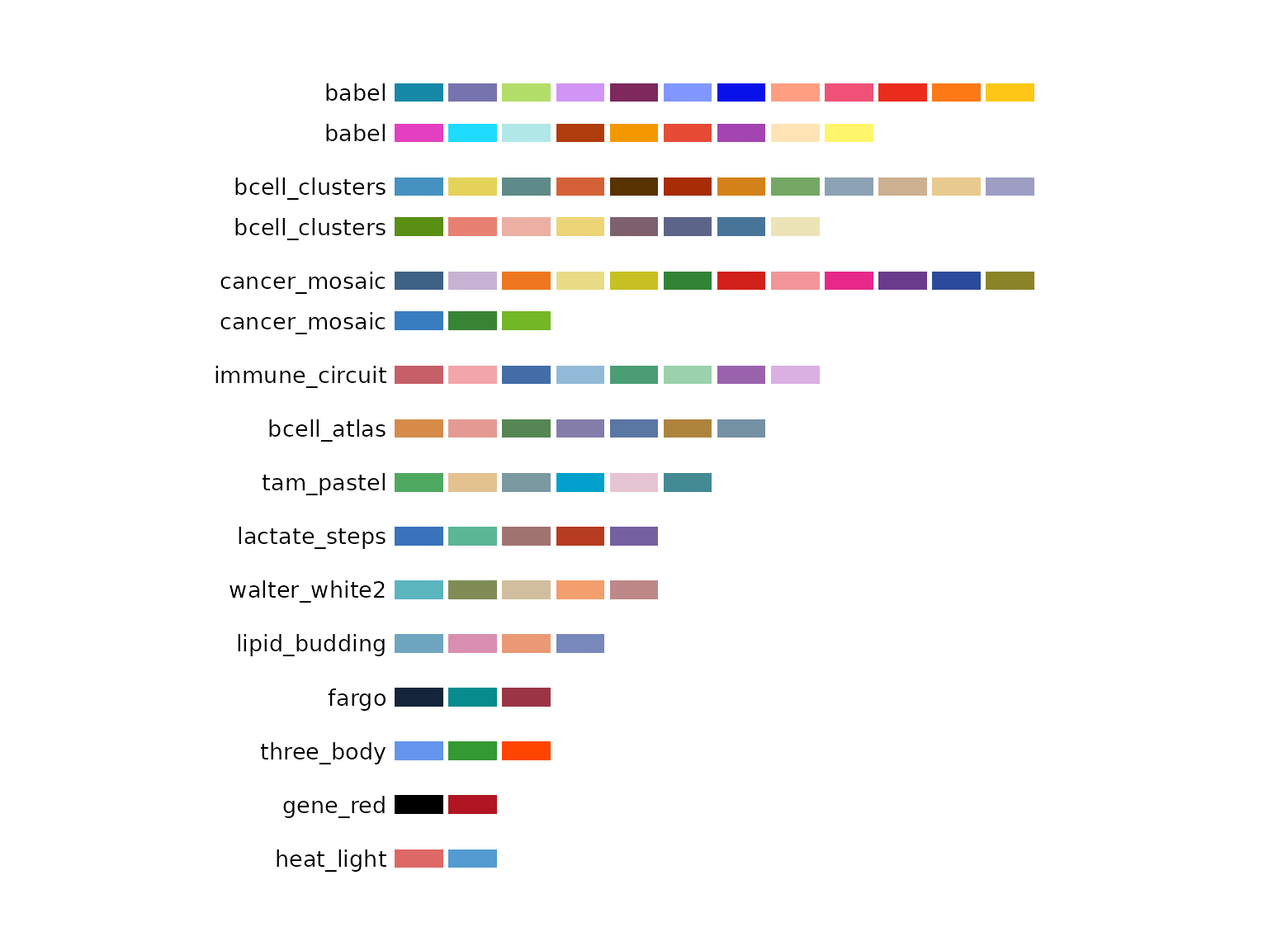
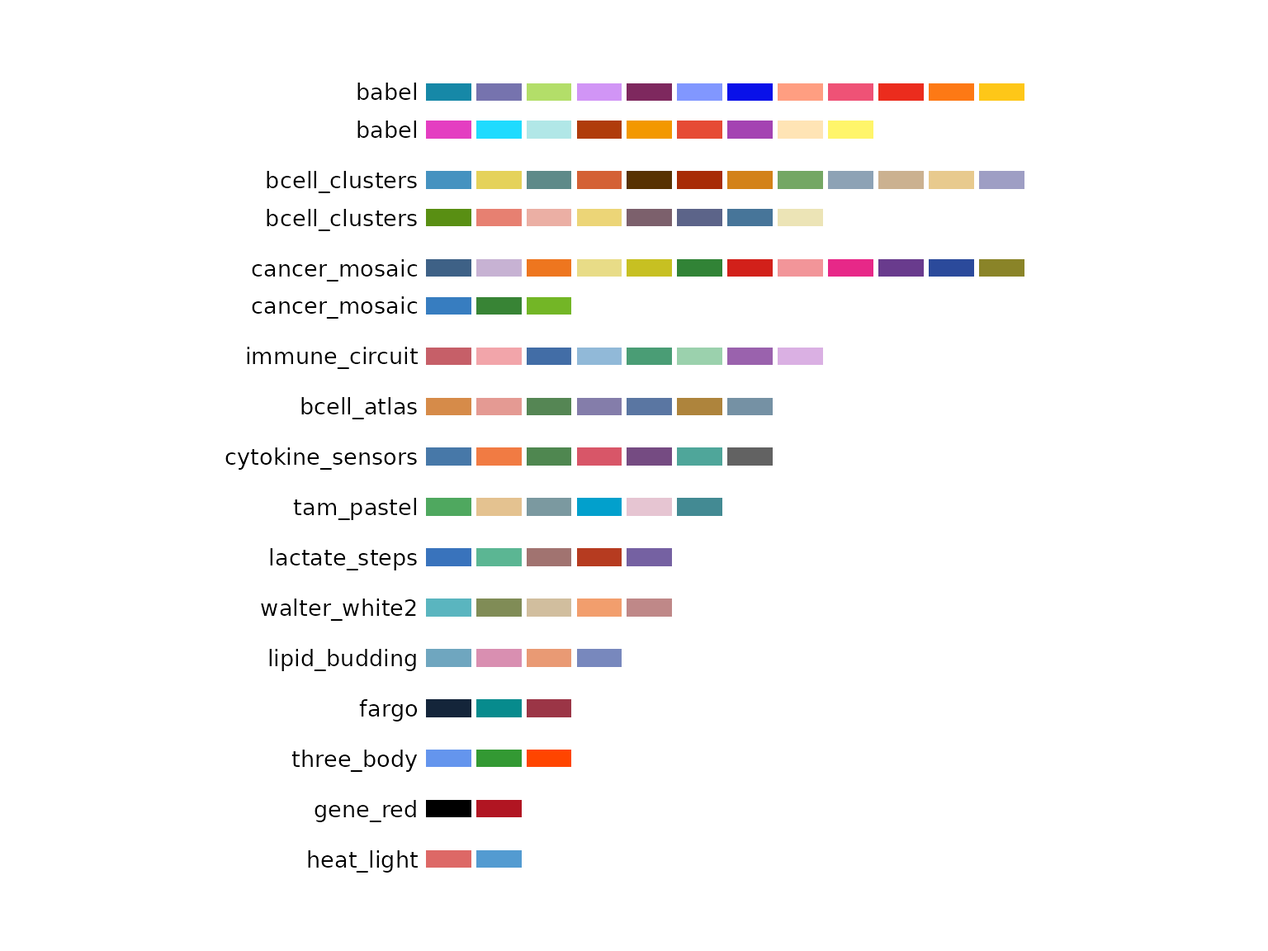
Deploying to gh-pages from @ evanbio/biopalette@20e13fb54e8c9c66c42164e6188b19ed5a1212f1 🚀

Changed region(s): [[0.1562, 0.0625, 0.8125, 0.9375], [0.75, 0.0938, 0.7812, 0.125]]

diff --git a/reference/list_palettes.html b/reference/list_palettes.html
@@ -145,33 +145,35 @@ If NULL, the palettes bundled with the package are used.</p></dd>
 <span class="r-out co"><span class="r-pr">#&gt;</span> 10        walter_white2 qualitative       5 #5AB5BF,....</span>
 <span class="r-out co"><span class="r-pr">#&gt;</span> 11           tam_pastel qualitative       6 #4FA85F,....</span>
 <span class="r-out co"><span class="r-pr">#&gt;</span> 12          bcell_atlas qualitative       7 #D68B49,....</span>
-<span class="r-out co"><span class="r-pr">#&gt;</span> 13       immune_circuit qualitative       8 #C65F68,....</span>
-<span class="r-out co"><span class="r-pr">#&gt;</span> 14        cancer_mosaic qualitative      15 #3E6186,....</span>
-<span class="r-out co"><span class="r-pr">#&gt;</span> 15       bcell_clusters qualitative      20 #4592C0,....</span>
-<span class="r-out co"><span class="r-pr">#&gt;</span> 16                babel qualitative      21 #1688A7,....</span>
-<span class="r-out co"><span class="r-pr">#&gt;</span> 17   lipid_budding_blue  sequential       5 #D2E7EE,....</span>
-<span class="r-out co"><span class="r-pr">#&gt;</span> 18 lipid_budding_indigo  sequential       5 #D5DBEE,....</span>
-<span class="r-out co"><span class="r-pr">#&gt;</span> 19 lipid_budding_orange  sequential       5 #F7D8C8,....</span>
-<span class="r-out co"><span class="r-pr">#&gt;</span> 20   lipid_budding_rose  sequential       5 #EED4E1,....</span>
-<span class="r-out co"><span class="r-pr">#&gt;</span> 21     mitonuclear_blue  sequential       6 #EEF4FB,....</span>
-<span class="r-out co"><span class="r-pr">#&gt;</span> 22   mitonuclear_orange  sequential       6 #F8E7E3,....</span>
-<span class="r-out co"><span class="r-pr">#&gt;</span> 23 immune_circuit_green  sequential       7 #E1F2E7,....</span>
-<span class="r-out co"><span class="r-pr">#&gt;</span> 24   immune_circuit_red  sequential       7 #FBE5E3,....</span>
+<span class="r-out co"><span class="r-pr">#&gt;</span> 13     cytokine_sensors qualitative       7 #4778A8,....</span>
+<span class="r-out co"><span class="r-pr">#&gt;</span> 14       immune_circuit qualitative       8 #C65F68,....</span>
+<span class="r-out co"><span class="r-pr">#&gt;</span> 15        cancer_mosaic qualitative      15 #3E6186,....</span>
+<span class="r-out co"><span class="r-pr">#&gt;</span> 16       bcell_clusters qualitative      20 #4592C0,....</span>
+<span class="r-out co"><span class="r-pr">#&gt;</span> 17                babel qualitative      21 #1688A7,....</span>
+<span class="r-out co"><span class="r-pr">#&gt;</span> 18   lipid_budding_blue  sequential       5 #D2E7EE,....</span>
+<span class="r-out co"><span class="r-pr">#&gt;</span> 19 lipid_budding_indigo  sequential       5 #D5DBEE,....</span>
+<span class="r-out co"><span class="r-pr">#&gt;</span> 20 lipid_budding_orange  sequential       5 #F7D8C8,....</span>
+<span class="r-out co"><span class="r-pr">#&gt;</span> 21   lipid_budding_rose  sequential       5 #EED4E1,....</span>
+<span class="r-out co"><span class="r-pr">#&gt;</span> 22     mitonuclear_blue  sequential       6 #EEF4FB,....</span>
+<span class="r-out co"><span class="r-pr">#&gt;</span> 23   mitonuclear_orange  sequential       6 #F8E7E3,....</span>
+<span class="r-out co"><span class="r-pr">#&gt;</span> 24 immune_circuit_green  sequential       7 #E1F2E7,....</span>
+<span class="r-out co"><span class="r-pr">#&gt;</span> 25   immune_circuit_red  sequential       7 #FBE5E3,....</span>
 <span class="r-in"><span><span class="fu">list_palettes</span><span class="op">(</span>type <span class="op">=</span> <span class="st">"qualitative"</span><span class="op">)</span></span></span>
-<span class="r-out co"><span class="r-pr">#&gt;</span>              name        type n_color       colors</span>
-<span class="r-out co"><span class="r-pr">#&gt;</span> 1        gene_red qualitative       2 #000000,....</span>
-<span class="r-out co"><span class="r-pr">#&gt;</span> 2      heat_light qualitative       2 #DD6866,....</span>
-<span class="r-out co"><span class="r-pr">#&gt;</span> 3           fargo qualitative       3 #14253A,....</span>
-<span class="r-out co"><span class="r-pr">#&gt;</span> 4      three_body qualitative       3 #6495ED,....</span>
-<span class="r-out co"><span class="r-pr">#&gt;</span> 5   lipid_budding qualitative       4 #6FA6BF,....</span>
-<span class="r-out co"><span class="r-pr">#&gt;</span> 6   lactate_steps qualitative       5 #3973BC,....</span>
-<span class="r-out co"><span class="r-pr">#&gt;</span> 7   walter_white2 qualitative       5 #5AB5BF,....</span>
-<span class="r-out co"><span class="r-pr">#&gt;</span> 8      tam_pastel qualitative       6 #4FA85F,....</span>
-<span class="r-out co"><span class="r-pr">#&gt;</span> 9     bcell_atlas qualitative       7 #D68B49,....</span>
-<span class="r-out co"><span class="r-pr">#&gt;</span> 10 immune_circuit qualitative       8 #C65F68,....</span>
-<span class="r-out co"><span class="r-pr">#&gt;</span> 11  cancer_mosaic qualitative      15 #3E6186,....</span>
-<span class="r-out co"><span class="r-pr">#&gt;</span> 12 bcell_clusters qualitative      20 #4592C0,....</span>
-<span class="r-out co"><span class="r-pr">#&gt;</span> 13          babel qualitative      21 #1688A7,....</span>
+<span class="r-out co"><span class="r-pr">#&gt;</span>                name        type n_color       colors</span>
+<span class="r-out co"><span class="r-pr">#&gt;</span> 1          gene_red qualitative       2 #000000,....</span>
+<span class="r-out co"><span class="r-pr">#&gt;</span> 2        heat_light qualitative       2 #DD6866,....</span>
+<span class="r-out co"><span class="r-pr">#&gt;</span> 3             fargo qualitative       3 #14253A,....</span>
+<span class="r-out co"><span class="r-pr">#&gt;</span> 4        three_body qualitative       3 #6495ED,....</span>
+<span class="r-out co"><span class="r-pr">#&gt;</span> 5     lipid_budding qualitative       4 #6FA6BF,....</span>
+<span class="r-out co"><span class="r-pr">#&gt;</span> 6     lactate_steps qualitative       5 #3973BC,....</span>
+<span class="r-out co"><span class="r-pr">#&gt;</span> 7     walter_white2 qualitative       5 #5AB5BF,....</span>
+<span class="r-out co"><span class="r-pr">#&gt;</span> 8        tam_pastel qualitative       6 #4FA85F,....</span>
+<span class="r-out co"><span class="r-pr">#&gt;</span> 9       bcell_atlas qualitative       7 #D68B49,....</span>
+<span class="r-out co"><span class="r-pr">#&gt;</span> 10 cytokine_sensors qualitative       7 #4778A8,....</span>
+<span class="r-out co"><span class="r-pr">#&gt;</span> 11   immune_circuit qualitative       8 #C65F68,....</span>
+<span class="r-out co"><span class="r-pr">#&gt;</span> 12    cancer_mosaic qualitative      15 #3E6186,....</span>
+<span class="r-out co"><span class="r-pr">#&gt;</span> 13   bcell_clusters qualitative      20 #4592C0,....</span>
+<span class="r-out co"><span class="r-pr">#&gt;</span> 14            babel qualitative      21 #1688A7,....</span>
 <span class="r-in"><span><span class="fu">list_palettes</span><span class="op">(</span>type <span class="op">=</span> <span class="fu"><a href="https://rdrr.io/r/base/c.html" class="external-link">c</a></span><span class="op">(</span><span class="st">"sequential"</span>, <span class="st">"diverging"</span><span class="op">)</span><span class="op">)</span></span></span>
 <span class="r-out co"><span class="r-pr">#&gt;</span>                    name       type n_color       colors</span>
 <span class="r-out co"><span class="r-pr">#&gt;</span> 1          bcell_atlas2  diverging       5 #D76B55,....</span>

diff --git a/reference/create_palette.html b/reference/create_palette.html
@@ -160,16 +160,16 @@ the collection that ships with the package.</p></dd>
     <div class="sourceCode"><pre class="sourceCode r"><code><span class="r-in"><span><span class="va">temp_dir</span> <span class="op">&lt;-</span> <span class="fu"><a href="https://rdrr.io/r/base/file.path.html" class="external-link">file.path</a></span><span class="op">(</span><span class="fu"><a href="https://rdrr.io/r/base/tempfile.html" class="external-link">tempdir</a></span><span class="op">(</span><span class="op">)</span>, <span class="st">"palettes"</span><span class="op">)</span></span></span>
 <span class="r-in"><span><span class="fu">create_palette</span><span class="op">(</span><span class="st">"blues"</span>, <span class="st">"sequential"</span>, <span class="fu"><a href="https://rdrr.io/r/base/c.html" class="external-link">c</a></span><span class="op">(</span><span class="st">"#deebf7"</span>, <span class="st">"#9ecae1"</span>, <span class="st">"#3182bd"</span><span class="op">)</span>,</span></span>
 <span class="r-in"><span>  palettes_dir <span class="op">=</span> <span class="va">temp_dir</span><span class="op">)</span></span></span>
-<span class="r-msg co"><span class="r-pr">#&gt;</span> <span style="color: #00BB00;">✔</span> Palette saved: <span style="color: #0000BB;">/tmp/RtmpOwpQ8U/palettes/sequential/blues.json</span></span>
+<span class="r-msg co"><span class="r-pr">#&gt;</span> <span style="color: #00BB00;">✔</span> Palette saved: <span style="color: #0000BB;">/tmp/RtmpzT0xN5/palettes/sequential/blues.json</span></span>
 <span class="r-in"><span><span class="fu">create_palette</span><span class="op">(</span><span class="st">"qual_vivid"</span>, <span class="st">"qualitative"</span>, <span class="fu"><a href="https://rdrr.io/r/base/c.html" class="external-link">c</a></span><span class="op">(</span><span class="st">"#E64B35"</span>, <span class="st">"#4DBBD5"</span>, <span class="st">"#00A087"</span><span class="op">)</span>,</span></span>
 <span class="r-in"><span>  palettes_dir <span class="op">=</span> <span class="va">temp_dir</span><span class="op">)</span></span></span>
-<span class="r-msg co"><span class="r-pr">#&gt;</span> <span style="color: #00BB00;">✔</span> Palette saved: <span style="color: #0000BB;">/tmp/RtmpOwpQ8U/palettes/qualitative/qual_vivid.json</span></span>
+<span class="r-msg co"><span class="r-pr">#&gt;</span> <span style="color: #00BB00;">✔</span> Palette saved: <span style="color: #0000BB;">/tmp/RtmpzT0xN5/palettes/qualitative/qual_vivid.json</span></span>
 <span class="r-in"><span></span></span>
 <span class="r-in"><span><span class="co"># Overwrite an existing palette explicitly</span></span></span>
 <span class="r-in"><span><span class="fu">create_palette</span><span class="op">(</span><span class="st">"blues"</span>, <span class="st">"sequential"</span>, <span class="fu"><a href="https://rdrr.io/r/base/c.html" class="external-link">c</a></span><span class="op">(</span><span class="st">"#c6dbef"</span>, <span class="st">"#6baed6"</span>, <span class="st">"#2171b5"</span><span class="op">)</span>,</span></span>
 <span class="r-in"><span>  palettes_dir <span class="op">=</span> <span class="va">temp_dir</span>, overwrite <span class="op">=</span> <span class="cn">TRUE</span><span class="op">)</span></span></span>
 <span class="r-msg co"><span class="r-pr">#&gt;</span> <span style="color: #00BBBB;">ℹ</span> Overwriting existing palette: <span style="color: #0000BB;">"blues"</span></span>
-<span class="r-msg co"><span class="r-pr">#&gt;</span> <span style="color: #00BB00;">✔</span> Palette saved: <span style="color: #0000BB;">/tmp/RtmpOwpQ8U/palettes/sequential/blues.json</span></span>
+<span class="r-msg co"><span class="r-pr">#&gt;</span> <span style="color: #00BB00;">✔</span> Palette saved: <span style="color: #0000BB;">/tmp/RtmpzT0xN5/palettes/sequential/blues.json</span></span>
 <span class="r-in"><span></span></span>
 <span class="r-in"><span><span class="fu"><a href="https://rdrr.io/r/base/unlink.html" class="external-link">unlink</a></span><span class="op">(</span><span class="va">temp_dir</span>, recursive <span class="op">=</span> <span class="cn">TRUE</span><span class="op">)</span></span></span>
 </code></pre></div>

diff --git a/articles/get-started.html b/articles/get-started.html
@@ -172,18 +172,19 @@ is not yet installed.</p>
 <span><span class="co">#&gt; 10        walter_white2 qualitative       5</span></span>
 <span><span class="co">#&gt; 11           tam_pastel qualitative       6</span></span>
 <span><span class="co">#&gt; 12          bcell_atlas qualitative       7</span></span>
-<span><span class="co">#&gt; 13       immune_circuit qualitative       8</span></span>
-<span><span class="co">#&gt; 14        cancer_mosaic qualitative      15</span></span>
-<span><span class="co">#&gt; 15       bcell_clusters qualitative      20</span></span>
-<span><span class="co">#&gt; 16                babel qualitative      21</span></span>
-<span><span class="co">#&gt; 17   lipid_budding_blue  sequential       5</span></span>
-<span><span class="co">#&gt; 18 lipid_budding_indigo  sequential       5</span></span>
-<span><span class="co">#&gt; 19 lipid_budding_orange  sequential       5</span></span>
-<span><span class="co">#&gt; 20   lipid_budding_rose  sequential       5</span></span>
-<span><span class="co">#&gt; 21     mitonuclear_blue  sequential       6</span></span>
-<span><span class="co">#&gt; 22   mitonuclear_orange  sequential       6</span></span>
-<span><span class="co">#&gt; 23 immune_circuit_green  sequential       7</span></span>
-<span><span class="co">#&gt; 24   immune_circuit_red  sequential       7</span></span></code></pre></div>
+<span><span class="co">#&gt; 13     cytokine_sensors qualitative       7</span></span>
+<span><span class="co">#&gt; 14       immune_circuit qualitative       8</span></span>
+<span><span class="co">#&gt; 15        cancer_mosaic qualitative      15</span></span>
+<span><span class="co">#&gt; 16       bcell_clusters qualitative      20</span></span>
+<span><span class="co">#&gt; 17                babel qualitative      21</span></span>
+<span><span class="co">#&gt; 18   lipid_budding_blue  sequential       5</span></span>
+<span><span class="co">#&gt; 19 lipid_budding_indigo  sequential       5</span></span>
+<span><span class="co">#&gt; 20 lipid_budding_orange  sequential       5</span></span>
+<span><span class="co">#&gt; 21   lipid_budding_rose  sequential       5</span></span>
+<span><span class="co">#&gt; 22     mitonuclear_blue  sequential       6</span></span>
+<span><span class="co">#&gt; 23   mitonuclear_orange  sequential       6</span></span>
+<span><span class="co">#&gt; 24 immune_circuit_green  sequential       7</span></span>
+<span><span class="co">#&gt; 25   immune_circuit_red  sequential       7</span></span></code></pre></div>
 <p>Filter by type when the visual role is already known:</p>
 <div class="sourceCode" id="cb2"><pre class="downlit sourceCode r">
 <code class="sourceCode R"><span><span class="fu"><a href="../reference/list_palettes.html">list_palettes</a></span><span class="op">(</span>type <span class="op">=</span> <span class="st">"sequential"</span><span class="op">)</span><span class="op">[</span><span class="fu"><a href="https://rdrr.io/r/base/c.html" class="external-link">c</a></span><span class="op">(</span><span class="st">"name"</span>, <span class="st">"n_color"</span><span class="op">)</span><span class="op">]</span></span>

diff --git a/articles/palette.html b/articles/palette.html
@@ -162,18 +162,19 @@ directory on GitHub.</p>
 <span><span class="co">#&gt; 10        walter_white2 qualitative       5</span></span>
 <span><span class="co">#&gt; 11           tam_pastel qualitative       6</span></span>
 <span><span class="co">#&gt; 12          bcell_atlas qualitative       7</span></span>
-<span><span class="co">#&gt; 13       immune_circuit qualitative       8</span></span>
-<span><span class="co">#&gt; 14        cancer_mosaic qualitative      15</span></span>
-<span><span class="co">#&gt; 15       bcell_clusters qualitative      20</span></span>
-<span><span class="co">#&gt; 16                babel qualitative      21</span></span>
-<span><span class="co">#&gt; 17   lipid_budding_blue  sequential       5</span></span>
-<span><span class="co">#&gt; 18 lipid_budding_indigo  sequential       5</span></span>
-<span><span class="co">#&gt; 19 lipid_budding_orange  sequential       5</span></span>
-<span><span class="co">#&gt; 20   lipid_budding_rose  sequential       5</span></span>
-<span><span class="co">#&gt; 21     mitonuclear_blue  sequential       6</span></span>
-<span><span class="co">#&gt; 22   mitonuclear_orange  sequential       6</span></span>
-<span><span class="co">#&gt; 23 immune_circuit_green  sequential       7</span></span>
-<span><span class="co">#&gt; 24   immune_circuit_red  sequential       7</span></span></code></pre></div>
+<span><span class="co">#&gt; 13     cytokine_sensors qualitative       7</span></span>
+<span><span class="co">#&gt; 14       immune_circuit qualitative       8</span></span>
+<span><span class="co">#&gt; 15        cancer_mosaic qualitative      15</span></span>
+<span><span class="co">#&gt; 16       bcell_clusters qualitative      20</span></span>
+<span><span class="co">#&gt; 17                babel qualitative      21</span></span>
+<span><span class="co">#&gt; 18   lipid_budding_blue  sequential       5</span></span>
+<span><span class="co">#&gt; 19 lipid_budding_indigo  sequential       5</span></span>
+<span><span class="co">#&gt; 20 lipid_budding_orange  sequential       5</span></span>
+<span><span class="co">#&gt; 21   lipid_budding_rose  sequential       5</span></span>
+<span><span class="co">#&gt; 22     mitonuclear_blue  sequential       6</span></span>
+<span><span class="co">#&gt; 23   mitonuclear_orange  sequential       6</span></span>
+<span><span class="co">#&gt; 24 immune_circuit_green  sequential       7</span></span>
+<span><span class="co">#&gt; 25   immune_circuit_red  sequential       7</span></span></code></pre></div>
 <p>Use <code><a href="../reference/palette_gallery.html">palette_gallery()</a></code> when choosing visually in an
 interactive R session:</p>
 <div class="sourceCode" id="cb3"><pre class="downlit sourceCode r">

diff --git a/reference/palette_gallery.html b/reference/palette_gallery.html
@@ -151,7 +151,7 @@ If NULL, the palettes bundled with the package are used.</p></dd>
 <span class="r-msg co"><span class="r-pr">#&gt;</span> <span style="color: #00BB00;">✔</span> Built <span style="color: #0000BB;">"sequential_page1"</span></span>
 <span class="r-msg co"><span class="r-pr">#&gt;</span> <span style="color: #00BBBB;">ℹ</span> Type <span style="font-weight: bold;">diverging</span>: 3 palettes -&gt; 1 page(s)</span>
 <span class="r-msg co"><span class="r-pr">#&gt;</span> <span style="color: #00BB00;">✔</span> Built <span style="color: #0000BB;">"diverging_page1"</span></span>
-<span class="r-msg co"><span class="r-pr">#&gt;</span> <span style="color: #00BBBB;">ℹ</span> Type <span style="font-weight: bold;">qualitative</span>: 13 palettes -&gt; 1 page(s)</span>
+<span class="r-msg co"><span class="r-pr">#&gt;</span> <span style="color: #00BBBB;">ℹ</span> Type <span style="font-weight: bold;">qualitative</span>: 14 palettes -&gt; 1 page(s)</span>
 <span class="r-msg co"><span class="r-pr">#&gt;</span> <span style="color: #00BB00;">✔</span> Built <span style="color: #0000BB;">"qualitative_page1"</span></span>
 <span class="r-out co"><span class="r-pr">#&gt;</span> $sequential_page1</span>
 <span class="r-plt img"><img src="palette_gallery-1.png" alt="" width="700" height="433"></span>
@@ -163,7 +163,7 @@ If NULL, the palettes bundled with the package are used.</p></dd>
 <span class="r-plt img"><img src="palette_gallery-3.png" alt="" width="700" height="433"></span>
 <span class="r-out co"><span class="r-pr">#&gt;</span> </span>
 <span class="r-in"><span><span class="fu">palette_gallery</span><span class="op">(</span>type <span class="op">=</span> <span class="st">"qualitative"</span><span class="op">)</span></span></span>
-<span class="r-msg co"><span class="r-pr">#&gt;</span> <span style="color: #00BBBB;">ℹ</span> Type <span style="font-weight: bold;">qualitative</span>: 13 palettes -&gt; 1 page(s)</span>
+<span class="r-msg co"><span class="r-pr">#&gt;</span> <span style="color: #00BBBB;">ℹ</span> Type <span style="font-weight: bold;">qualitative</span>: 14 palettes -&gt; 1 page(s)</span>
 <span class="r-msg co"><span class="r-pr">#&gt;</span> <span style="color: #00BB00;">✔</span> Built <span style="color: #0000BB;">"qualitative_page1"</span></span>
 <span class="r-out co"><span class="r-pr">#&gt;</span> $qualitative_page1</span>
 <span class="r-plt img"><img src="palette_gallery-4.png" alt="" width="700" height="433"></span>

diff --git a/reference/remove_palette.html b/reference/remove_palette.html
@@ -138,7 +138,7 @@ with the package can never be removed from.</p></dd>
 <span class="r-in"><span>  <span class="fu"><a href="https://rdrr.io/r/base/c.html" class="external-link">c</a></span><span class="op">(</span><span class="st">"#E64B35"</span>, <span class="st">"#4DBBD5"</span>, <span class="st">"#00A087"</span><span class="op">)</span>,</span></span>
 <span class="r-in"><span>  palettes_dir <span class="op">=</span> <span class="va">temp_dir</span></span></span>
 <span class="r-in"><span><span class="op">)</span></span></span>
-<span class="r-msg co"><span class="r-pr">#&gt;</span> <span style="color: #00BB00;">✔</span> Palette saved: <span style="color: #0000BB;">/tmp/RtmpOwpQ8U/biopalette-palettes-1bd14c16cdb1/qualitative/example_palette.json</span></span>
+<span class="r-msg co"><span class="r-pr">#&gt;</span> <span style="color: #00BB00;">✔</span> Palette saved: <span style="color: #0000BB;">/tmp/RtmpzT0xN5/biopalette-palettes-190b19df041f/qualitative/example_palette.json</span></span>
 <span class="r-in"><span></span></span>
 <span class="r-in"><span><span class="fu">remove_palette</span><span class="op">(</span><span class="st">"example_palette"</span>, palettes_dir <span class="op">=</span> <span class="va">temp_dir</span><span class="op">)</span></span></span>
 <span class="r-msg co"><span class="r-pr">#&gt;</span> <span style="color: #00BB00;">✔</span> Removed <span style="color: #0000BB;">"example_palette"</span> from <span style="font-weight: bold;">qualitative</span></span>

diff --git a/README_zh.html b/README_zh.html
@@ -273,6 +273,11 @@
 <td align="right">5</td>
 <td>石板靛蓝色的低到高连续数值</td>
 <td>肝脏内质网脂滴出芽 — FIT2 靛蓝</td>
+</tr><tr><td><a href="https://github.com/evanbio/biopalette/tree/main/palettes/cytokine_sensors" class="external-link"><code>cytokine_sensors</code></a></td>
+<td>定性</td>
+<td align="right">7</td>
+<td>六类神经免疫结局与一个中性细胞因子锚点</td>
+<td>中枢神经系统的神经元细胞因子感知（Trends Immunology, 2026）</td>
 </tr></tbody></table><hr></div>
 <div class="section level2">
 <h2 id="从色板到图形">从色板到图形<a class="anchor" aria-label="anchor" href="#%E4%BB%8E%E8%89%B2%E6%9D%BF%E5%88%B0%E5%9B%BE%E5%BD%A2"></a></h2>

diff --git a/index.html b/index.html
@@ -365,6 +365,13 @@
 <td>Low-to-high continuous values in slate indigo</td>
 <td>Hepatic ER lipid-droplet budding — FIT2 indigo</td>
 </tr>
+<tr>
+<td><code>cytokine_sensors</code></td>
+<td>Qualitative</td>
+<td align="right">7</td>
+<td>Six neuroimmune outcomes with a neutral cytokine anchor</td>
+<td>Neuronal cytokine sensing in the CNS (Trends Immunology, 2026)</td>
+</tr>
 </tbody>
 </table>
 </div>

diff --git a/reference/list_palettes.md b/reference/list_palettes.md
@@ -47,33 +47,35 @@ list_palettes()
 #> 10        walter_white2 qualitative       5 #5AB5BF,....
 #> 11           tam_pastel qualitative       6 #4FA85F,....
 #> 12          bcell_atlas qualitative       7 #D68B49,....
-#> 13       immune_circuit qualitative       8 #C65F68,....
-#> 14        cancer_mosaic qualitative      15 #3E6186,....
-#> 15       bcell_clusters qualitative      20 #4592C0,....
-#> 16                babel qualitative      21 #1688A7,....
-#> 17   lipid_budding_blue  sequential       5 #D2E7EE,....
-#> 18 lipid_budding_indigo  sequential       5 #D5DBEE,....
-#> 19 lipid_budding_orange  sequential       5 #F7D8C8,....
-#> 20   lipid_budding_rose  sequential       5 #EED4E1,....
-#> 21     mitonuclear_blue  sequential       6 #EEF4FB,....
-#> 22   mitonuclear_orange  sequential       6 #F8E7E3,....
-#> 23 immune_circuit_green  sequential       7 #E1F2E7,....
-#> 24   immune_circuit_red  sequential       7 #FBE5E3,....
+#> 13     cytokine_sensors qualitative       7 #4778A8,....
+#> 14       immune_circuit qualitative       8 #C65F68,....
+#> 15        cancer_mosaic qualitative      15 #3E6186,....
+#> 16       bcell_clusters qualitative      20 #4592C0,....
+#> 17                babel qualitative      21 #1688A7,....
+#> 18   lipid_budding_blue  sequential       5 #D2E7EE,....
+#> 19 lipid_budding_indigo  sequential       5 #D5DBEE,....
+#> 20 lipid_budding_orange  sequential       5 #F7D8C8,....
+#> 21   lipid_budding_rose  sequential       5 #EED4E1,....
+#> 22     mitonuclear_blue  sequential       6 #EEF4FB,....
+#> 23   mitonuclear_orange  sequential       6 #F8E7E3,....
+#> 24 immune_circuit_green  sequential       7 #E1F2E7,....
+#> 25   immune_circuit_red  sequential       7 #FBE5E3,....
 list_palettes(type = "qualitative")
-#>              name        type n_color       colors
-#> 1        gene_red qualitative       2 #000000,....
-#> 2      heat_light qualitative       2 #DD6866,....
-#> 3           fargo qualitative       3 #14253A,....
-#> 4      three_body qualitative       3 #6495ED,....
-#> 5   lipid_budding qualitative       4 #6FA6BF,....
-#> 6   lactate_steps qualitative       5 #3973BC,....
-#> 7   walter_white2 qualitative       5 #5AB5BF,....
-#> 8      tam_pastel qualitative       6 #4FA85F,....
-#> 9     bcell_atlas qualitative       7 #D68B49,....
-#> 10 immune_circuit qualitative       8 #C65F68,....
-#> 11  cancer_mosaic qualitative      15 #3E6186,....
-#> 12 bcell_clusters qualitative      20 #4592C0,....
-#> 13          babel qualitative      21 #1688A7,....
+#>                name        type n_color       colors
+#> 1          gene_red qualitative       2 #000000,....
+#> 2        heat_light qualitative       2 #DD6866,....
+#> 3             fargo qualitative       3 #14253A,....
+#> 4        three_body qualitative       3 #6495ED,....
+#> 5     lipid_budding qualitative       4 #6FA6BF,....
+#> 6     lactate_steps qualitative       5 #3973BC,....
+#> 7     walter_white2 qualitative       5 #5AB5BF,....
+#> 8        tam_pastel qualitative       6 #4FA85F,....
+#> 9       bcell_atlas qualitative       7 #D68B49,....
+#> 10 cytokine_sensors qualitative       7 #4778A8,....
+#> 11   immune_circuit qualitative       8 #C65F68,....
+#> 12    cancer_mosaic qualitative      15 #3E6186,....
+#> 13   bcell_clusters qualitative      20 #4592C0,....
+#> 14            babel qualitative      21 #1688A7,....
 list_palettes(type = c("sequential", "diverging"))
 #>                    name       type n_color       colors
 #> 1          bcell_atlas2  diverging       5 #D76B55,....

diff --git a/articles/get-started.md b/articles/get-started.md
@@ -35,18 +35,19 @@ list_palettes()[c("name", "type", "n_color")]
 #> 10        walter_white2 qualitative       5
 #> 11           tam_pastel qualitative       6
 #> 12          bcell_atlas qualitative       7
-#> 13       immune_circuit qualitative       8
-#> 14        cancer_mosaic qualitative      15
-#> 15       bcell_clusters qualitative      20
-#> 16                babel qualitative      21
-#> 17   lipid_budding_blue  sequential       5
-#> 18 lipid_budding_indigo  sequential       5
-#> 19 lipid_budding_orange  sequential       5
-#> 20   lipid_budding_rose  sequential       5
-#> 21     mitonuclear_blue  sequential       6
-#> 22   mitonuclear_orange  sequential       6
-#> 23 immune_circuit_green  sequential       7
-#> 24   immune_circuit_red  sequential       7
+#> 13     cytokine_sensors qualitative       7
+#> 14       immune_circuit qualitative       8
+#> 15        cancer_mosaic qualitative      15
+#> 16       bcell_clusters qualitative      20
+#> 17                babel qualitative      21
+#> 18   lipid_budding_blue  sequential       5
+#> 19 lipid_budding_indigo  sequential       5
+#> 20 lipid_budding_orange  sequential       5
+#> 21   lipid_budding_rose  sequential       5
+#> 22     mitonuclear_blue  sequential       6
+#> 23   mitonuclear_orange  sequential       6
+#> 24 immune_circuit_green  sequential       7
+#> 25   immune_circuit_red  sequential       7
 ```
 
 Filter by type when the visual role is already known:

diff --git a/articles/palette.md b/articles/palette.md
@@ -38,18 +38,19 @@ list_palettes()[c("name", "type", "n_color")]
 #> 10        walter_white2 qualitative       5
 #> 11           tam_pastel qualitative       6
 #> 12          bcell_atlas qualitative       7
-#> 13       immune_circuit qualitative       8
-#> 14        cancer_mosaic qualitative      15
-#> 15       bcell_clusters qualitative      20
-#> 16                babel qualitative      21
-#> 17   lipid_budding_blue  sequential       5
-#> 18 lipid_budding_indigo  sequential       5
-#> 19 lipid_budding_orange  sequential       5
-#> 20   lipid_budding_rose  sequential       5
-#> 21     mitonuclear_blue  sequential       6
-#> 22   mitonuclear_orange  sequential       6
-#> 23 immune_circuit_green  sequential       7
-#> 24   immune_circuit_red  sequential       7
+#> 13     cytokine_sensors qualitative       7
+#> 14       immune_circuit qualitative       8
+#> 15        cancer_mosaic qualitative      15
+#> 16       bcell_clusters qualitative      20
+#> 17                babel qualitative      21
+#> 18   lipid_budding_blue  sequential       5
+#> 19 lipid_budding_indigo  sequential       5
+#> 20 lipid_budding_orange  sequential       5
+#> 21   lipid_budding_rose  sequential       5
+#> 22     mitonuclear_blue  sequential       6
+#> 23   mitonuclear_orange  sequential       6
+#> 24 immune_circuit_green  sequential       7
+#> 25   immune_circuit_red  sequential       7
 ```
 
 Use

diff --git a/README_zh.md b/README_zh.md
@@ -95,6 +95,7 @@ remotes::install_github("evanbio/biopalette")
 | [`lipid_budding_rose`](https://github.com/evanbio/biopalette/tree/main/palettes/lipid_budding_rose) | 渐进 | 5 | 灰调玫红色的低到高连续数值 | 肝脏内质网脂滴出芽 — DGAT1 玫红 |
 | [`lipid_budding_orange`](https://github.com/evanbio/biopalette/tree/main/palettes/lipid_budding_orange) | 渐进 | 5 | 鲑橙色的低到高连续数值 | 肝脏内质网脂滴出芽 — Seipin 橙 |
 | [`lipid_budding_indigo`](https://github.com/evanbio/biopalette/tree/main/palettes/lipid_budding_indigo) | 渐进 | 5 | 石板靛蓝色的低到高连续数值 | 肝脏内质网脂滴出芽 — FIT2 靛蓝 |
+| [`cytokine_sensors`](https://github.com/evanbio/biopalette/tree/main/palettes/cytokine_sensors) | 定性 | 7 | 六类神经免疫结局与一个中性细胞因子锚点 | 中枢神经系统的神经元细胞因子感知（Trends Immunology, 2026） |
 
 ------------------------------------------------------------------------
 
